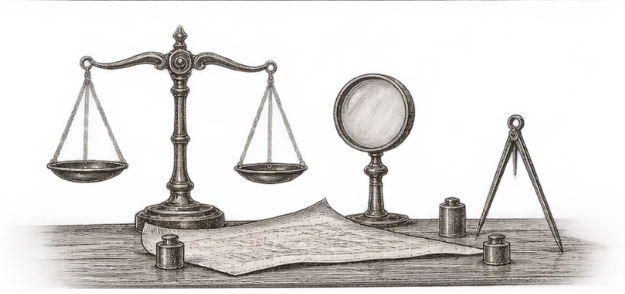
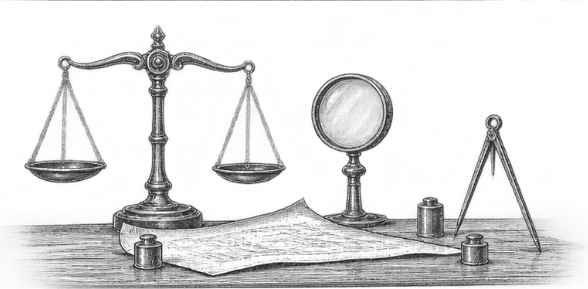
feat(web): Work's final scene; the plates masked by their lines' ink (LC42)
The mask took only the PNG's alpha, so a scene drew as a grey silhouette. The
plates now carry the lines' darkness as their alpha (trimmed, 1120 px at most):
the drawing reads, the paper is gone. Work's is Luca's final 1536×1024; Learn,
Forum and Labs are still the provisional cuts.

Changed region(s): [[0.0306, 0.0934, 0.9796, 1.0]]

diff --git a/app/src/components/layout/SectionBackdrop.tsx b/app/src/components/layout/SectionBackdrop.tsx
@@ -8,10 +8,10 @@ import type { SectionId } from '../../features/sections/sections';
  * behind text, a card or a button; Learn's «Oggi», already full, has none.
  */
 const PLATES: Record<SectionId, { file: string; width: number; ratio: number; fadeRight: boolean }> = {
-  opus: { file: 'sfondo-work', width: 360, ratio: 306 / 390, fadeRight: true },
-  gymnasium: { file: 'sfondo-learn', width: 560, ratio: 308 / 649, fadeRight: true },
-  forum: { file: 'sfondo-forum', width: 560, ratio: 294 / 637, fadeRight: false },
-  academia: { file: 'sfondo-labs', width: 560, ratio: 294 / 625, fadeRight: false },
+  opus: { file: 'sfondo-work', width: 420, ratio: 929 / 966, fadeRight: false },
+  gymnasium: { file: 'sfondo-learn', width: 560, ratio: 296 / 630, fadeRight: true },
+  forum: { file: 'sfondo-forum', width: 560, ratio: 290 / 619, fadeRight: false },
+  academia: { file: 'sfondo-labs', width: 560, ratio: 289 / 588, fadeRight: false },
 };
 
 /** A plate shorter than this would be a smudge, not a scene. */
@@ -52,7 +52,7 @@ export function SectionBackdrop({ section, pathname, scroller }: { section: Sect
   const height = Math.min(tallest, room);
   const width = Math.round(height / plate.ratio);
   const url = `url(${import.meta.env.BASE_URL}illustrations/${plate.file}.webp)`;
-  // Work's and Learn's scenes are cut at the right: the cut fades into the paper (no new files needed).
+  // A scene cut at the right (the provisional cuts): the cut fades into the paper (no new files needed).
   const masks = plate.fadeRight ? `${url}, linear-gradient(to left, transparent, #000 15%)` : url;
   const style: CSSProperties = {
     width,
